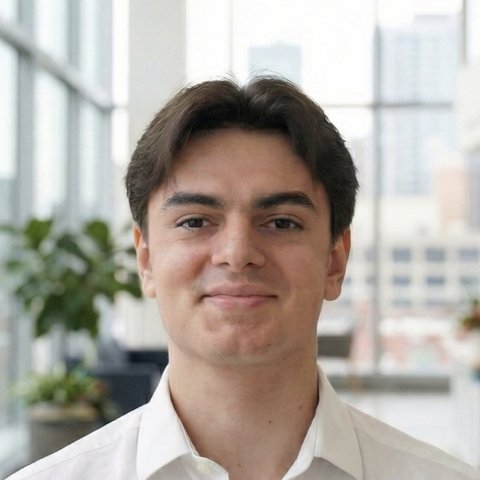
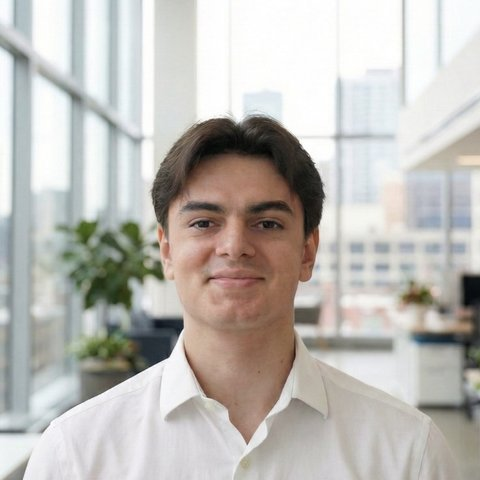
fix(site): improve contact, sidebar and project wording
- Add a copy button next to the email, mailto does nothing without a mail app
- Let the fixed sidebar scroll on short windows
- Rewrite the daisy-scan description in plain language
- Use a wider avatar crop

diff --git a/index.html b/index.html
@@ -159,8 +159,8 @@
 								<ul class="project-results">
 									<li><strong><span lang="fr">Chaque valeur vérifiée</span><span lang="en">Every value verified</span></strong><span lang="fr">contre le texte source du site</span><span lang="en">against the website source text</span></li>
 								</ul>
-								<p lang="fr"><strong>Solution :</strong> à partir de la simple URL du site, l'outil parcourt les pages et les PDF, extrait l'offre par LLM et produit un brouillon de catalogue modifiable. Connecteurs dédiés aux plateformes de réservation courantes et protection contre les requêtes malveillantes (SSRF).</p>
-								<p lang="en"><strong>Solution:</strong> from just the website URL, the tool crawls pages and PDFs, extracts the offer with an LLM and produces an editable catalog draft. Dedicated connectors for common booking platforms and protection against malicious requests (SSRF).</p>
+								<p lang="fr"><strong>Solution :</strong> à partir de la simple URL du site, l'outil parcourt les pages et les PDF, extrait l'offre par LLM et produit un brouillon de catalogue modifiable. Il sait aussi lire directement les pages des plateformes de réservation les plus utilisées par les ateliers, et il est sécurisé pour qu'une URL piégée ne puisse pas lui faire accéder à des serveurs internes.</p>
+								<p lang="en"><strong>Solution:</strong> from just the website URL, the tool crawls pages and PDFs, extracts the offer with an LLM and produces an editable catalog draft. It can also read pages from the booking platforms workshops use most, and it is secured so that a malicious URL cannot make it reach internal servers.</p>
 								<ul class="tags"><li>Next.js</li><li>TypeScript</li><li>Playwright</li><li>Gemini</li></ul>
 								<p class="project-note"><span lang="fr">Outil interne, code privé.</span><span lang="en">Internal tool, private code.</span></p>
 							</article>
@@ -287,6 +287,10 @@
 							<li>
 								<h3 class="icon solid fa-envelope"><span class="label">Email</span></h3>
 								<a href="mailto:antoine.dupuy01@gmail.com">antoine.dupuy01@gmail.com</a>
+								<button type="button" class="copy-email" data-copy="antoine.dupuy01@gmail.com">
+									<span class="copy-idle"><span lang="fr">Copier</span><span lang="en">Copy</span></span>
+									<span class="copy-done" hidden><span lang="fr">Copié</span><span lang="en">Copied</span></span>
+								</button>
 							</li>
 							<li>
 								<h3 class="icon brands fa-linkedin-in"><span class="label">LinkedIn</span></h3>
@@ -322,6 +326,7 @@
 			<script src="assets/js/util.js"></script>
 			<script src="assets/js/main.js"></script>
 			<script src="assets/js/i18n.js"></script>
+			<script src="assets/js/copy-email.js"></script>
 
 	</body>
 </html>

diff --git a/assets/js/copy-email.js b/assets/js/copy-email.js
@@ -1,0 +1,48 @@
+/*
+	"Copy" buttons next to the email address: mailto links do nothing for
+	visitors without a configured mail app, so the address can be copied instead.
+*/
+
+(function() {
+
+	var FEEDBACK_DURATION_MS = 2000;
+
+	function showCopiedFeedback(button) {
+		var idleLabel = button.querySelector('.copy-idle'),
+			doneLabel = button.querySelector('.copy-done');
+
+		idleLabel.hidden = true;
+		doneLabel.hidden = false;
+
+		window.setTimeout(function() {
+			idleLabel.hidden = false;
+			doneLabel.hidden = true;
+		}, FEEDBACK_DURATION_MS);
+	}
+
+	// Fallback when the clipboard is unavailable or refused: select the address so Ctrl+C works.
+	function selectAddressText(button) {
+		var range = document.createRange(),
+			selection = window.getSelection();
+
+		range.selectNodeContents(button.previousElementSibling);
+		selection.removeAllRanges();
+		selection.addRange(range);
+	}
+
+	document.querySelectorAll('[data-copy]').forEach(function(button) {
+
+		button.addEventListener('click', function() {
+			if (!navigator.clipboard) {
+				selectAddressText(button);
+				return;
+			}
+
+			navigator.clipboard.writeText(button.dataset.copy)
+				.then(function() { showCopiedFeedback(button); })
+				.catch(function() { selectAddressText(button); });
+		});
+
+	});
+
+})();

diff --git a/assets/css/custom.css b/assets/css/custom.css
@@ -125,6 +125,11 @@
 
 	/* Right-aligned sidebar on desktop, centered stacked header on smaller screens. */
 	@media screen and (min-width: 981px) {
+		/* The sidebar is fixed: let it scroll when the window is too short for its content. */
+		#header {
+			overflow-y: auto;
+		}
+
 		#header .inner {
 			display: flex;
 			flex-direction: column;
@@ -302,6 +307,27 @@
 		color: var(--text-muted);
 		font-size: 0.85em;
 		font-style: italic;
+	}
+
+/* Contact */
+
+	.copy-email {
+		background: transparent;
+		border: solid 1px var(--border);
+		border-radius: 4px;
+		box-shadow: none;
+		color: var(--text-bold) !important;
+		cursor: pointer;
+		font-size: 0.75em;
+		height: 2.2em;
+		line-height: 2.1em;
+		margin-left: 0.75em;
+		padding: 0 0.8em;
+		vertical-align: middle;
+	}
+
+	.copy-email:hover {
+		border-color: var(--accent);
 	}
 
 /* Skills */
